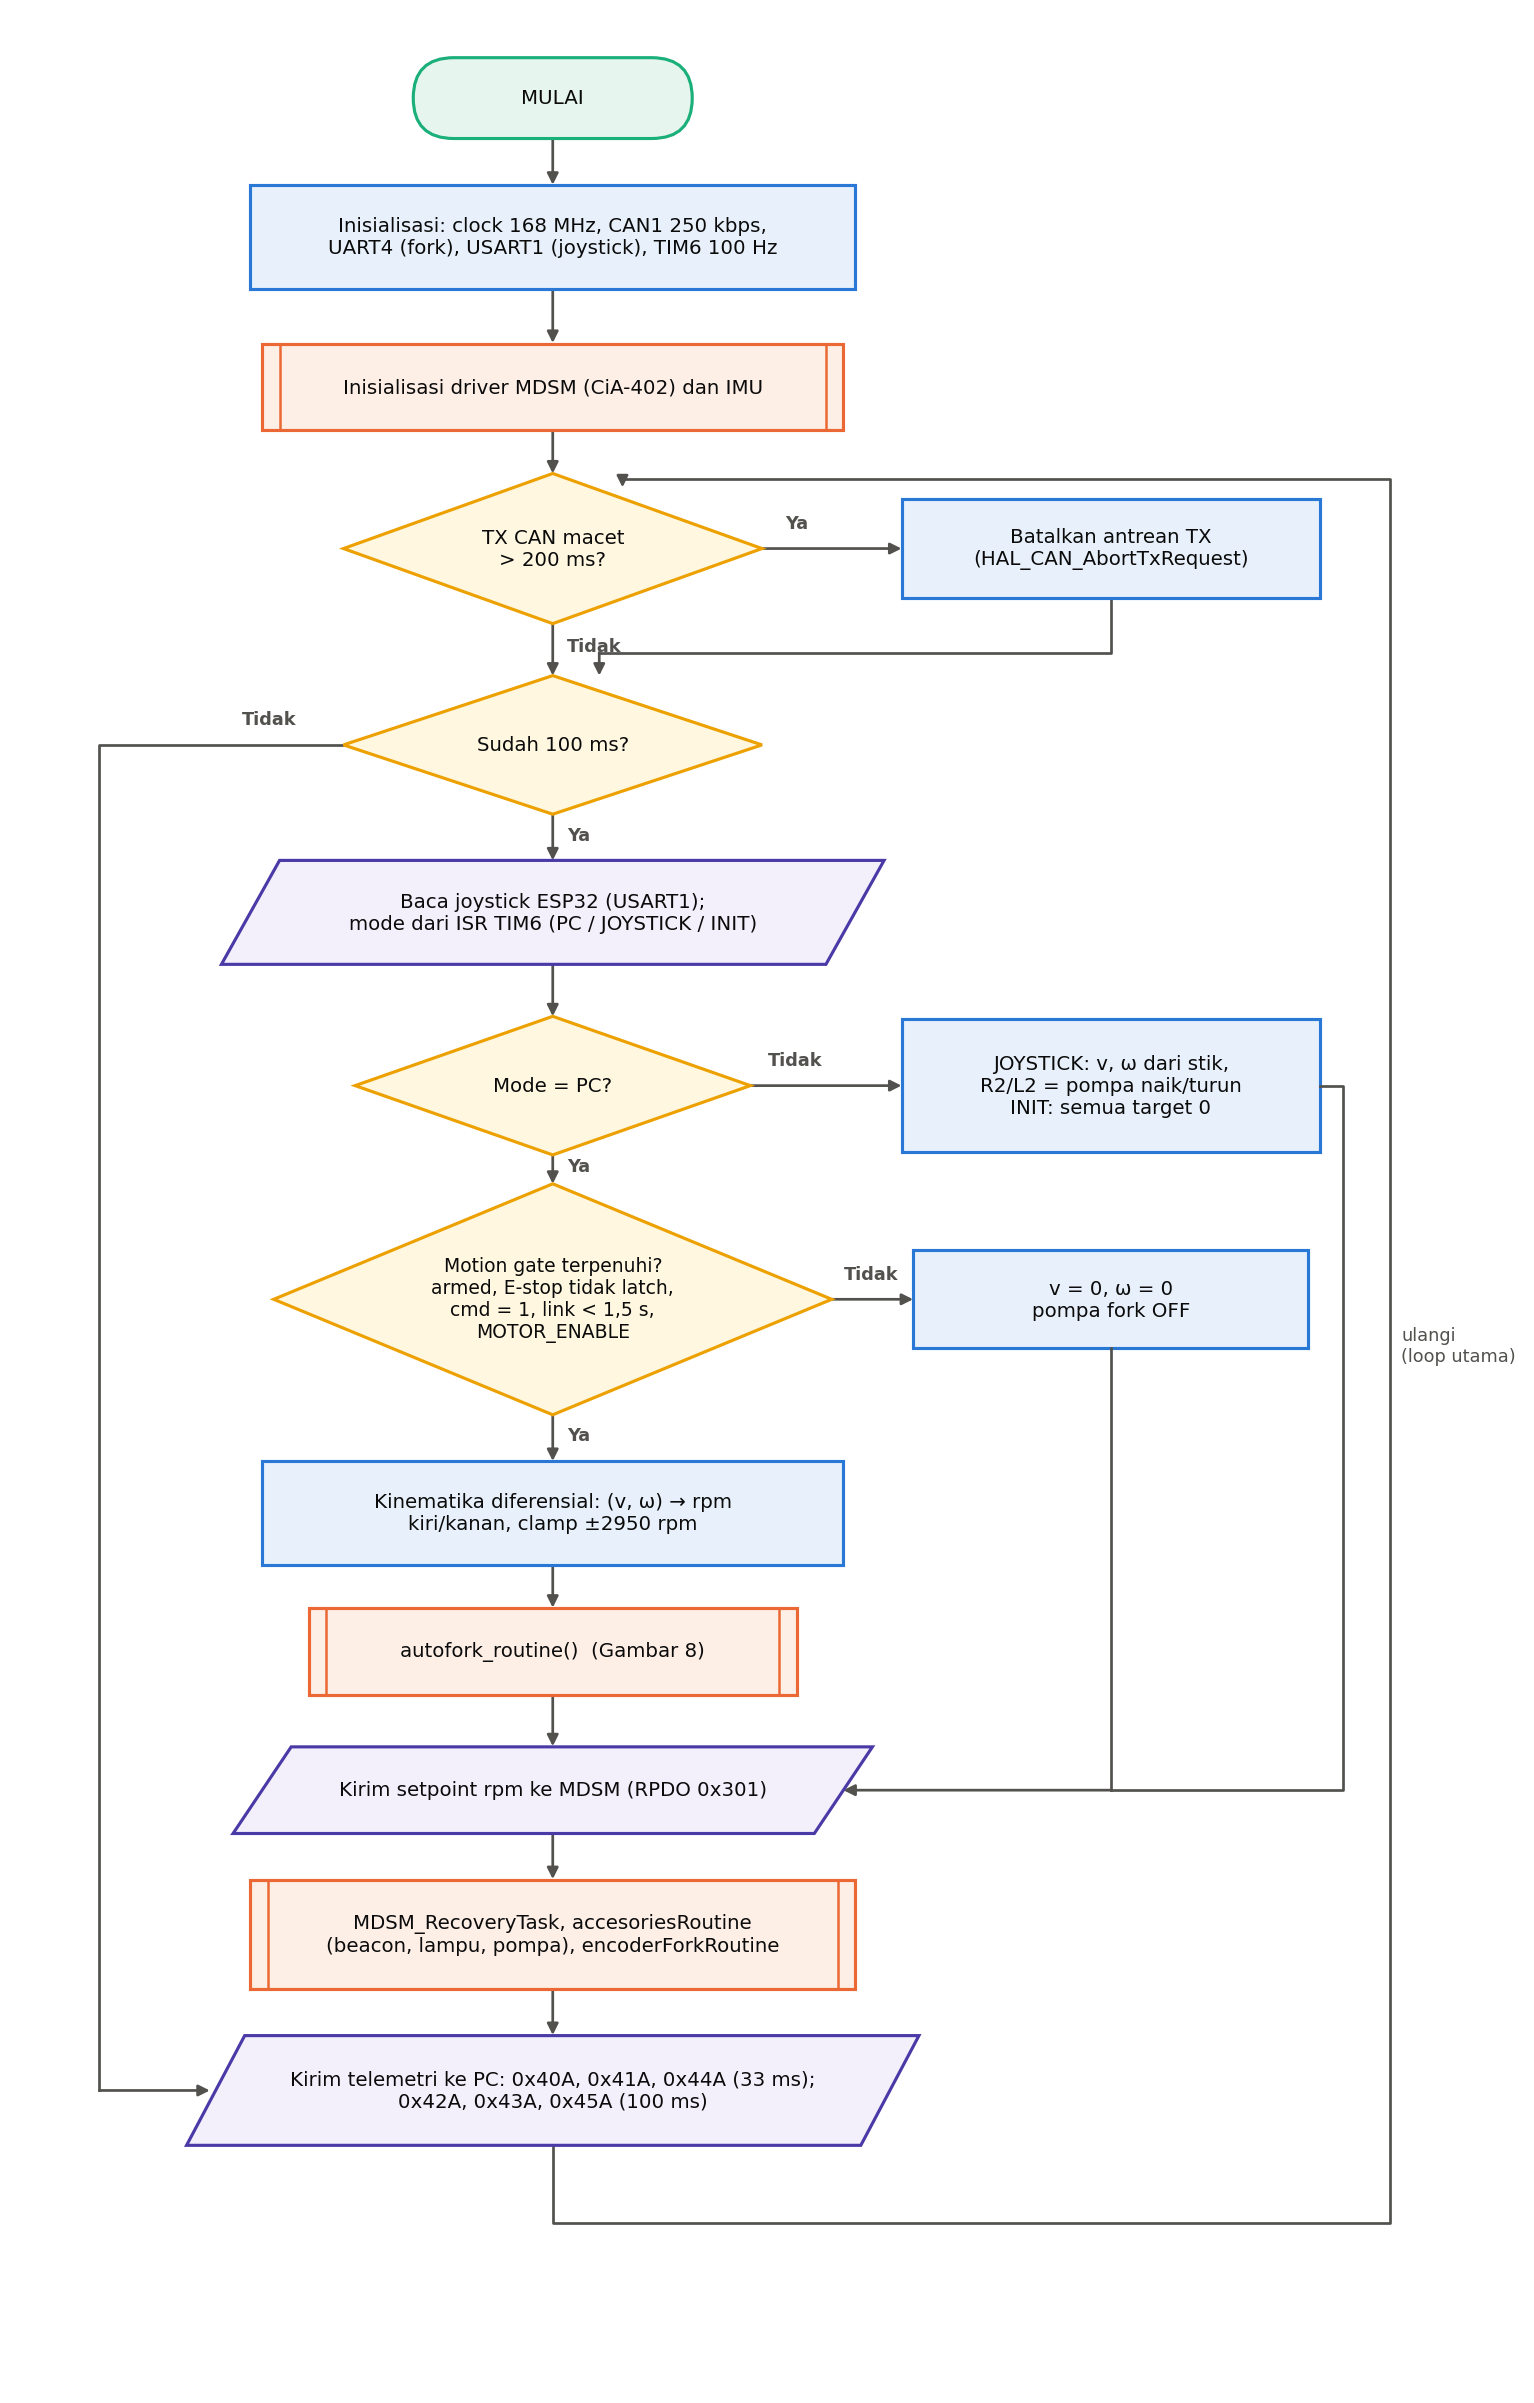
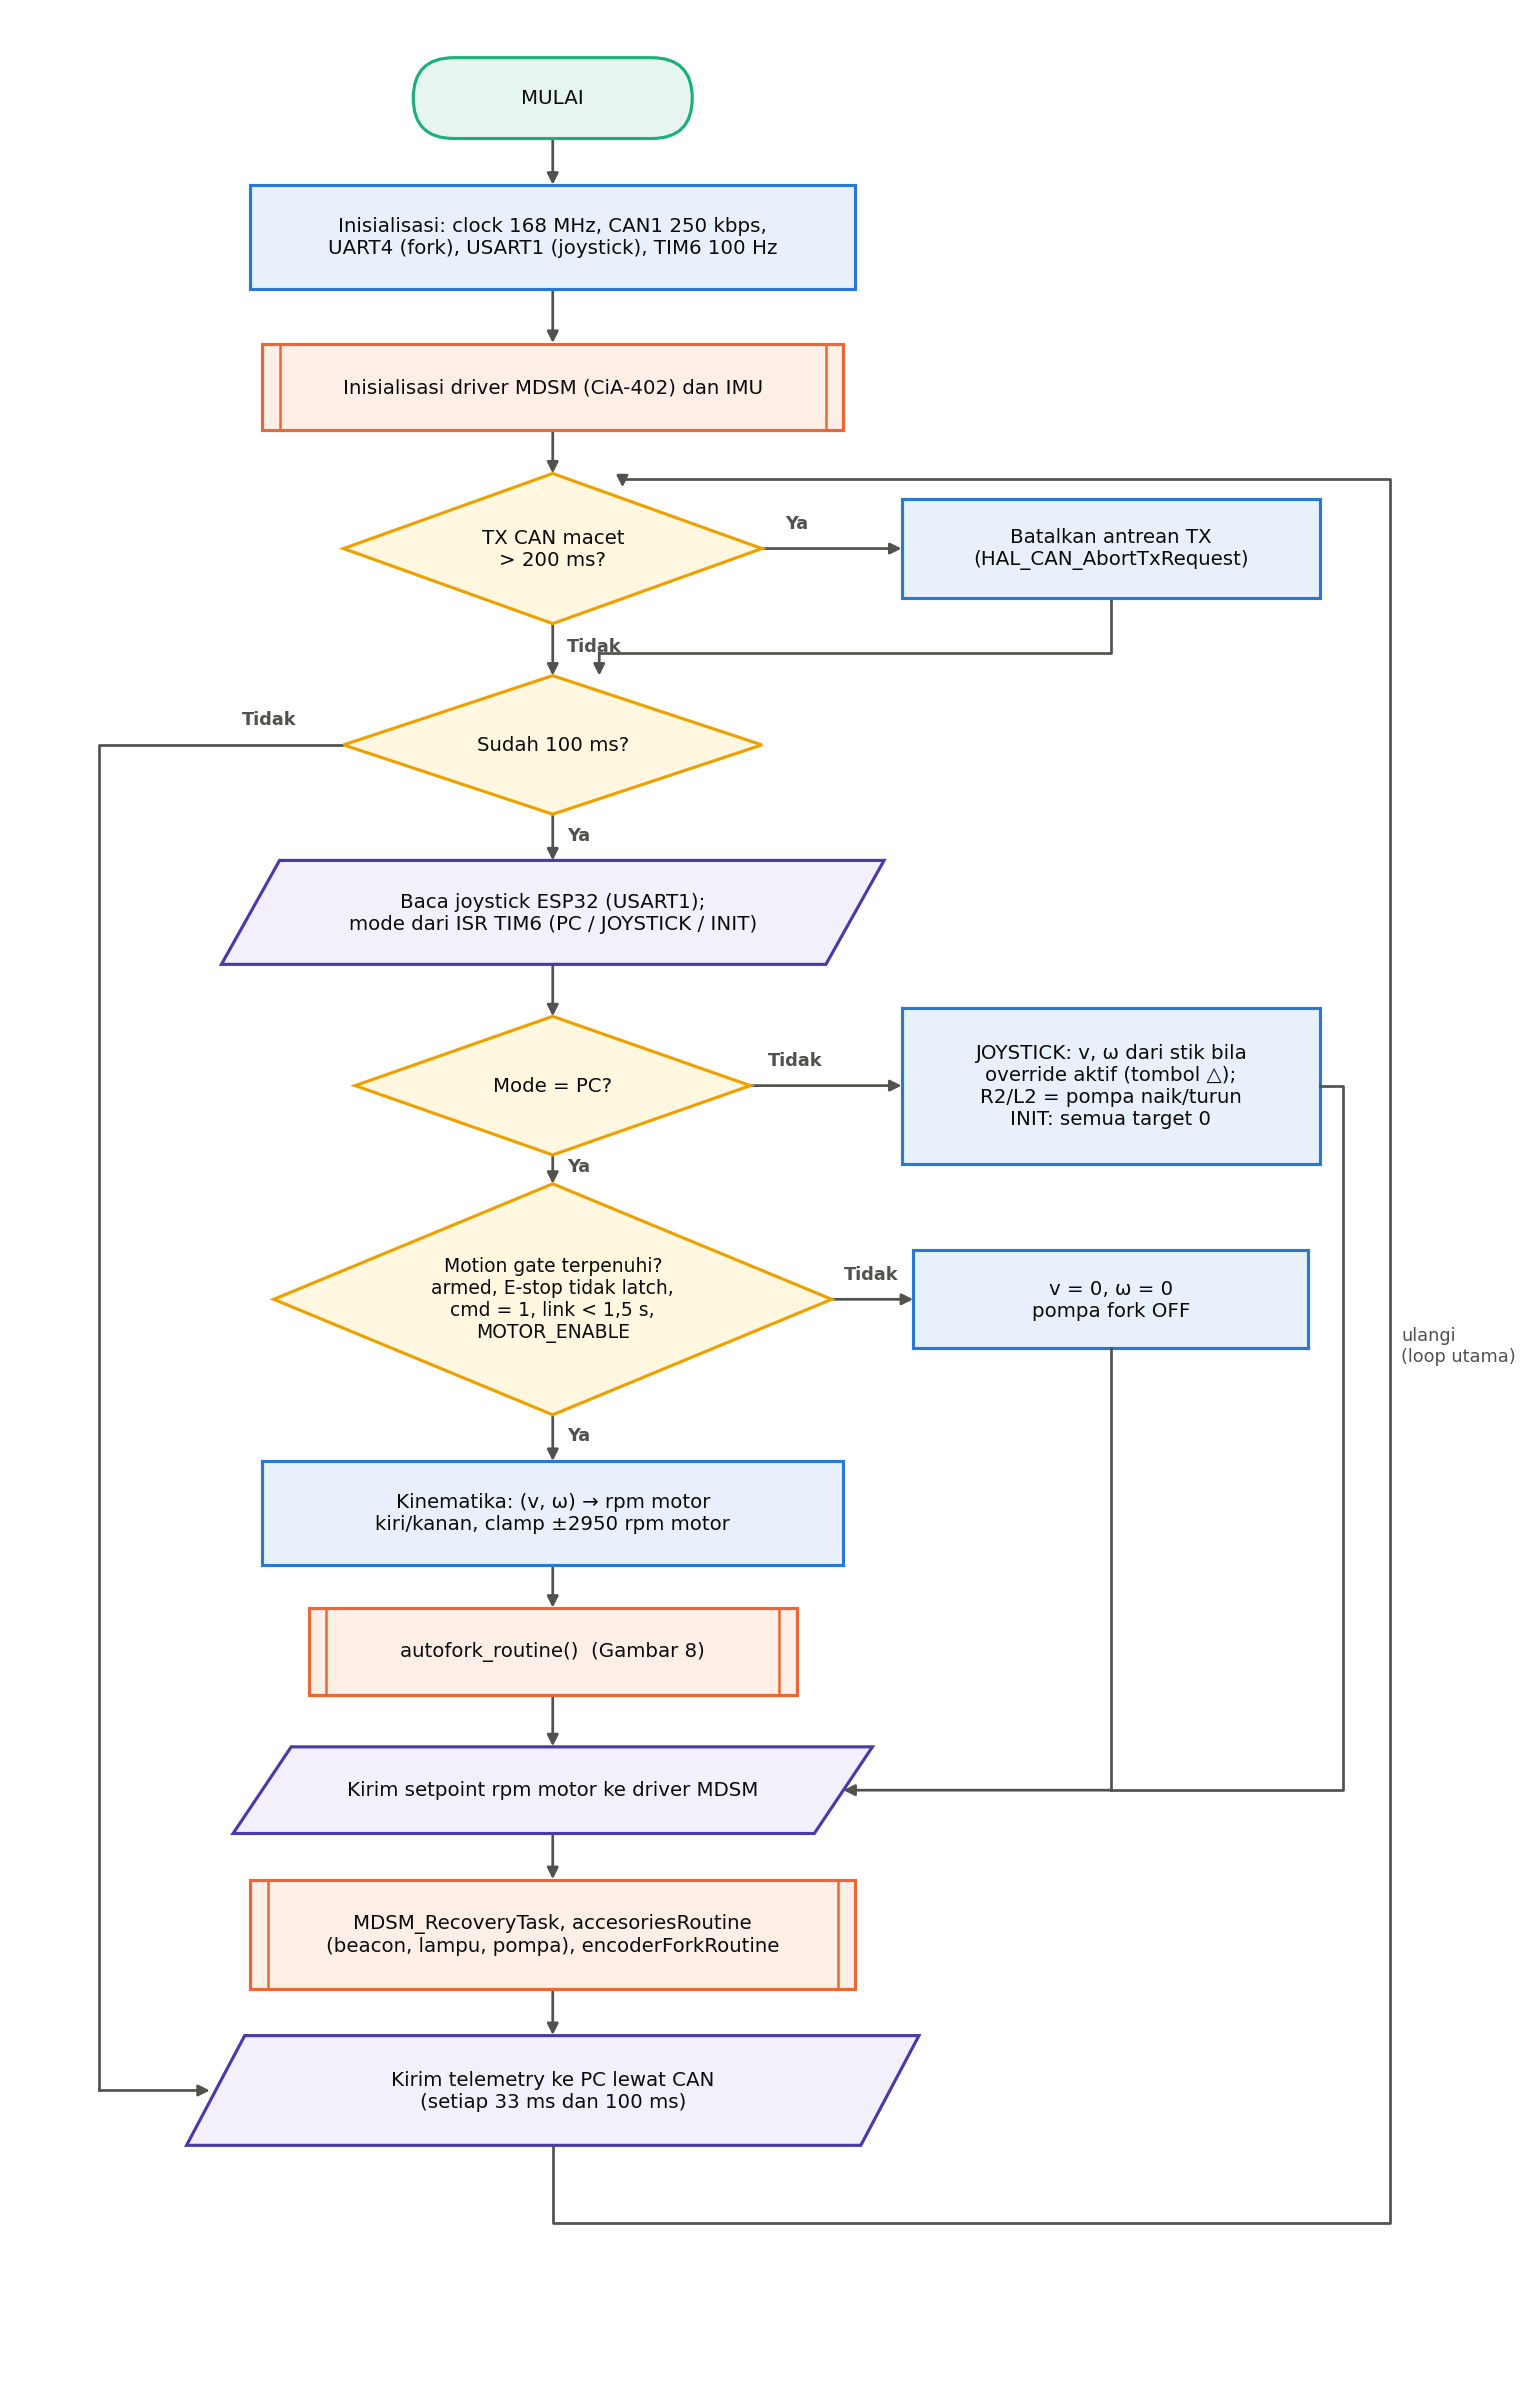
Week 4: generalisasi detail navigasi, hapus detail internal, koreksi rpm motor dan homing

diff --git a/README.md b/README.md
@@ -31,7 +31,7 @@ Periode 19/10/2026 s.d. 23/10/2026 (tahap Perancangan), sesuai logbook individu 
 
 1. Pekerjaan hardware minggu 4 (verifikasi frame CAN dengan candump di forklift, driver LiDAR /scan, kalibrasi fork titik 200 cm, perbaikan label limit switch) belum dikerjakan karena minggu ini difokuskan pada DED. Solusi: dikerjakan di minggu 5 sebelum review desain M2.
 2. Wiring E-stop dan driver pompa belum terdokumentasi, dan skematik board STM32F407 belum ada. Solusi: telusuri wiring panel forklift dan lampirkan di DED.
-3. Watchdog firmware 1,5 s melebihi target SP-09 (≤ 1 s). Solusi: diuji pada T-05; ambang diturunkan atau mengandalkan watchdog bridge 0,6 s.
+3. Watchdog firmware 1,5 s melebihi target SP-09 (≤ 1 s). Solusi: ambang watchdog firmware diturunkan ke ≤ 1 s, lalu diverifikasi pada T-05.
 4. Power budget belum dapat dihitung karena arus pompa, PC, dan elektronik belum diukur. Solusi: diukur saat kalibrasi minggu 6–7.
 
 **Capaian target:** Sebagian — target (1) dan (2) tercapai; (3) belum.
@@ -40,7 +40,7 @@ Materi minggu sebelumnya:
 
 - [Branch week1](https://github.com/syawxyz/PjBL-Semester7/tree/week1) = Diskusi dengan mitra, Nav2, RViz, algoritma A*, arsitektur dan skematik modul fork
 - [Branch week2](https://github.com/syawxyz/PjBL-Semester7/tree/week2) = Simulasi Nav2 dan SLAM, Theta*, perakitan dan kalibrasi modul fork, CAN bus dasar dan CAN-bridge node, TF tree dan URDF, rosbag2
-- [Branch week3](https://github.com/syawxyz/PjBL-Semester7/tree/week3) = CAN lanjutan dan peta ID CAN forklift, FAST-LIO dan DLIO, Hybrid A*, desain kontrol forklift, draf DED bagian 01–03
+- [Branch week3](https://github.com/syawxyz/PjBL-Semester7/tree/week3) = CAN lanjutan dan data CAN forklift, FAST-LIO dan DLIO, Hybrid A*, desain kontrol forklift, draf DED bagian 01–03
 
 ---
 
@@ -59,7 +59,7 @@ DED adalah luaran L2 di Project Charter dan menjadi bahan review desain (milesto
 - 09 Daftar Lampiran = Skematik, datasheet, kode program, gambar mekanik
 - 10 Review Desain dan Persetujuan = Checklist review (diisi dosen pembimbing)
 
-Seluruh data teknis diambil dari kode firmware STM32F407, firmware modul fork STM32F401, node ROS 2, dan konfigurasi Nav2 di repositori proyek AGV (`agv-forklift-ta`).
+Seluruh data teknis diambil dari kode firmware STM32F407, firmware modul fork STM32F401, dan node ROS 2 forklift milik mitra. Rincian yang bersifat internal (peta perintah CAN, alamat jaringan, dan parameter navigasi) hanya dicantumkan di dokumen DED.
 
 ![Arsitektur sistem AMR forklift](images/arsitektur-sistem.png)
 
@@ -73,8 +73,8 @@ Seluruh data teknis diambil dari kode firmware STM32F407, firmware modul fork ST
 - Modul fork = STM32F401CCU6 Black Pill dengan encoder incremental 600 PPR dan dua limit switch
 - Driver motor = MDSM25B96G-2, dual channel, CANopen CiA-402 node 1, arus rated 24 A
 - Motor traksi = TZ09-D09 (2 unit), 2950 rpm, gear ratio 24, roda Ø210 mm
-- IMU = HWT901B versi CAN, ID 0x050
-- LiDAR = Autonics LSC, FOV 270°, 15 Hz, jarak 0,3–25 m, Ethernet
+- IMU = HWT901B versi CAN
+- LiDAR = Autonics LSC, FOV 270°, 15 Hz, Ethernet (jarak maksimum dari datasheet belum diverifikasi di lapangan)
 - PC onboard = Intel NUC 11 (Core i3-1115G4, RAM 16 GB), Ubuntu 22.04, ROS 2 Humble
 - Baterai = Sistem 48 V
 
@@ -101,20 +101,20 @@ Seluruh data teknis diambil dari kode firmware STM32F407, firmware modul fork ST
 ![Alur data software](images/ded-software.png)
 
 - Firmware = STM32F407 (kontroler utama) dan STM32F401 (modul fork), bahasa C dengan STM32 HAL
-- Backend = PC onboard dengan ROS 2 Humble (Python): agv_can_bridge, slam_toolbox, Nav2 SmacPlannerHybrid, path_exec_node, cmd_mux_node, data_logger
-- Frontend / HMI = GUI web (gui_server) di port 8080
+- Backend = PC onboard dengan ROS 2 Humble (Python): CAN-bridge node, slam_toolbox (mapping dan localization), Nav2 planner (Hybrid A*), path follower, command multiplexer, data logger
+- Frontend / HMI = GUI web operator
 
 ### Modul Utama
 
 - autofork_routine() = Kendali on/off fork dengan early cut 2,0 cm (naik) dan 3,0 cm (turun), aktif lagi jika error > 3,0 cm
-- Kinematika dan driver = Mengubah (v, ω) menjadi rpm roda kiri/kanan, dibatasi ±2950 rpm, dengan stall recovery
+- Kinematika dan driver = Mengubah (v, ω) menjadi rpm motor kiri/kanan (gear ratio 24), dibatasi ±2950 rpm motor (≈ ±123 rpm roda), dengan stall recovery
 - Arbitrase mode dan watchdog = Memilih mode PC, JOYSTICK, atau INIT; link PC dianggap timeout setelah 1,5 s
-- agv_can_bridge = Satu-satunya node yang menggerakkan robot; mengubah /cmd_vel_agv dan /cmd_fork menjadi frame CAN, dengan watchdog perintah 0,6 s
-- planner_server + smac_adapter = Path planning Hybrid A* Reeds-Shepp dengan radius belok 1,21 m
-- path_exec_node + halangan = Path follower; stop jika ada obstacle dalam 1,2 m di depan
-- cmd_mux_node = Memilih perintah dengan prioritas manual, lalu docking, lalu otonom
+- CAN-bridge node = Satu-satunya node yang menggerakkan robot; mengubah /cmd_vel_agv dan /cmd_fork menjadi frame CAN, dengan watchdog perintah
+- Nav2 planner = Path planning Hybrid A* yang memperhitungkan radius belok forklift
+- Path follower = Mengikuti jalur; stop jika ada obstacle di depan forklift
+- Command multiplexer = Memilih perintah dengan prioritas manual, lalu docking, lalu otonom
 
-Peta ID CAN lengkap ada di [branch week3](https://github.com/syawxyz/PjBL-Semester7/tree/week3#peta-id-can-forklift).
+Ringkasan data CAN ada di [branch week3](https://github.com/syawxyz/PjBL-Semester7/tree/week3#data-can-forklift).
 
 ---
 
@@ -130,7 +130,7 @@ Setelah inisialisasi, firmware masuk ke loop utama. Setiap 100 ms firmware memba
 
 ![Flowchart autofork_routine](images/ded-flowchart-fork.png)
 
-- Homing = Saat pertama kali jalan, fork diturunkan sampai limit switch bawah aktif, lalu encoder dianggap nol
+- Homing = Hanya berjalan di mode PC: fork diturunkan sampai limit switch bawah aktif; modul fork me-nol-kan count setiap kali limit switch bawah tertekan
 - Naik = Pompa dimatikan saat error ≤ 2,0 cm (early cut) untuk mengimbangi overrun
 - Turun = Pompa dimatikan saat error ≥ −3,0 cm (early cut)
 - Diam = Pompa dinyalakan lagi hanya jika |error| > 3,0 cm
@@ -139,22 +139,22 @@ Setelah inisialisasi, firmware masuk ke loop utama. Setiap 100 ms firmware memba
 ### State Machine
 
 - INIT = Saat boot, atau tidak ada joystick maupun PC yang aktif; semua target nol
-- JOYSTICK = Frame joystick valid; v dan ω mengikuti stik, tombol R2/L2 menggerakkan fork
-- PC = Perintah 0x01A masih baru (< 1,5 s), sudah di-arm, tanpa override; mengikuti 0x01A dan 0x02A selama motion gate terpenuhi
-- E-STOP (latch) = Frame 0x00A berisi 0x55 di mode apa pun; kembali normal setelah frame 0x01A disarm
+- JOYSTICK = Frame joystick valid; override = 0 setelah boot (lampu kuning), jadi v dan ω baru mengikuti stik setelah tombol segitiga ditekan; tombol R2/L2 menggerakkan fork tanpa perlu override
+- PC = Perintah gerak dari PC masih baru (< 1,5 s), sudah di-arm, tanpa override; mengikuti perintah gerak dan target fork selama motion gate terpenuhi
+- E-STOP (latch) = E-stop software dari PC; perintah gerak dari PC ditahan sampai operator melepas latch, sedangkan joystick tetap bisa dipakai
 
 ---
 
 ## Rencana Pengujian
 
 - T-01 (SP-01, SP-02) = Rekam rosbag 60 menit dan uji odometry lurus 5 m serta putar 360°
-- T-02 (SP-03, SP-04) = Ukur tinggi fork di 6 titik 0–200 cm (naik dan turun) dan 10 target acak lewat /cmd_fork
-- T-03 (SP-01) = Cocokkan frame CAN hasil candump dengan peta ID, cek telemetry selama 10 menit
+- T-02 (SP-03, SP-04) = Ukur tinggi fork di 6 titik dari posisi terendah (≈ 18 cm) sampai 200 cm (naik dan turun) dan 10 target acak lewat /cmd_fork
+- T-03 (SP-01) = Cocokkan frame CAN hasil candump dengan peta ID, cek riwayat task manager dan telemetry selama 10 menit
 - T-04 (SP-05, SP-06, SP-07) = Localization di 5 titik referensi, 20 percobaan navigasi point-to-point, 10 siklus A → fork naik → B → fork turun
 - T-05 (SP-08, SP-09) = Uji E-stop, link terputus, kecepatan, dan 50 perintah manual lewat remote
 - T-06 (security) = Perintah gerak tanpa arming, tanpa deadman, dan setelah E-stop tidak boleh menggerakkan forklift
 
-Status saat ini: T-02 sebagian (kalibrasi 29/9 pada 0–150 cm, residu maksimal 0,8 cm); uji lainnya belum dilakukan.
+Status saat ini: T-02 sebagian (kalibrasi minggu 2 pada 18–150 cm, residu maksimal 0,8 cm); uji lainnya belum dilakukan.
 
 ---
 
@@ -162,14 +162,12 @@ Status saat ini: T-02 sebagian (kalibrasi 29/9 pada 0–150 cm, residu maksimal 
 
 Hal-hal berikut ditemukan saat menyusun DED dan perlu ditindaklanjuti sebelum atau saat pengujian:
 
-- Watchdog firmware = Link PC dianggap timeout setelah 1,5 s, melebihi target SP-09 (≤ 1 s); watchdog di agv_can_bridge 0,6 s
-- E-stop = Belum ada input E-stop di firmware, dan wiring E-stop fisik belum terdokumentasi
-- Driver pompa = Rangkaian antara GPIO STM32F407 dan pompa/valve belum terdokumentasi
 - Skematik = Skematik board STM32F407 belum tersedia; baru modul fork yang lengkap
-- Power budget = Baru motor traksi yang diketahui (puncak ± 16,7 A per channel pada 48 V); pompa, PC, dan elektronik belum diukur
-- Limit switch = Label PB14/PB15 di skematik dan firmware perlu diselaraskan
-- Sisi belakang = Belum ada sensor di sisi fork, sehingga gerak mundur harus didampingi orang
-- Firmware terpasang = Firmware terakhir di-flash 24/8, sedangkan logika early cut di kode bertanggal 26/8; versi yang berjalan di forklift perlu dipastikan
+- Power budget = Baru motor traksi yang diketahui (batas arus driver 16,7 A per channel pada 48 V); pompa, PC, dan elektronik belum diukur
+- Limit switch = Firmware memakai PB14 = atas dan PB15 = bawah; label di skematik perlu disesuaikan
+- Firmware terpasang = Firmware terakhir di-flash 24/8, sedangkan logika early cut di kode bertanggal 26/8; firmware perlu di-flash ulang sebelum uji fork
+
+Temuan yang berkaitan dengan keselamatan dicatat di DED bagian 07–08 dan dibahas saat review desain.
 
 ---
 
